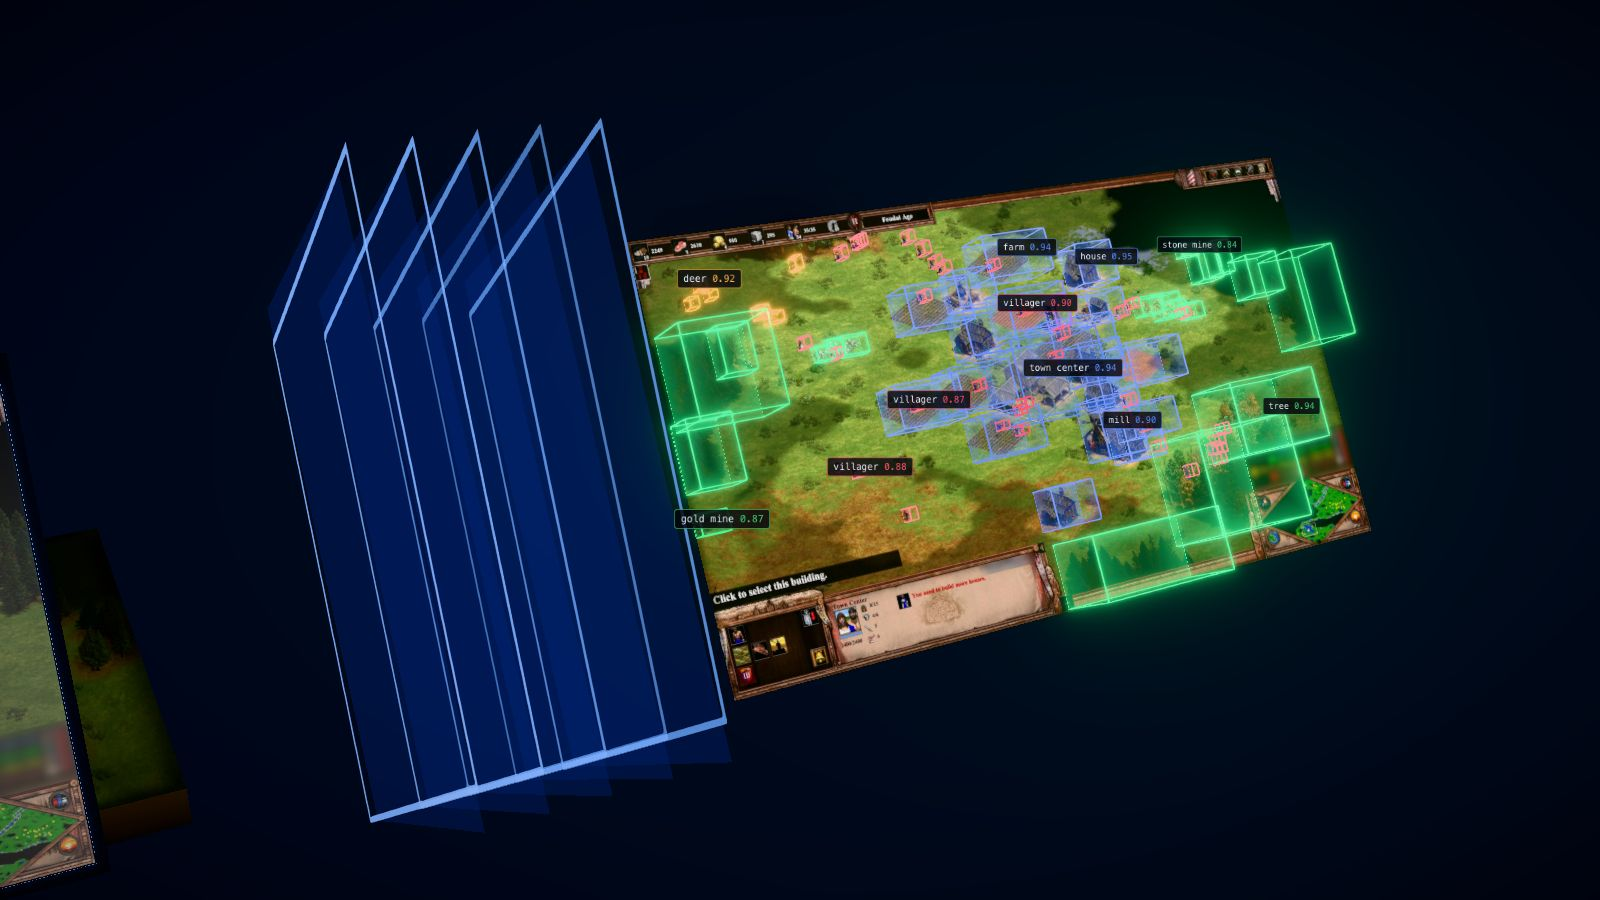
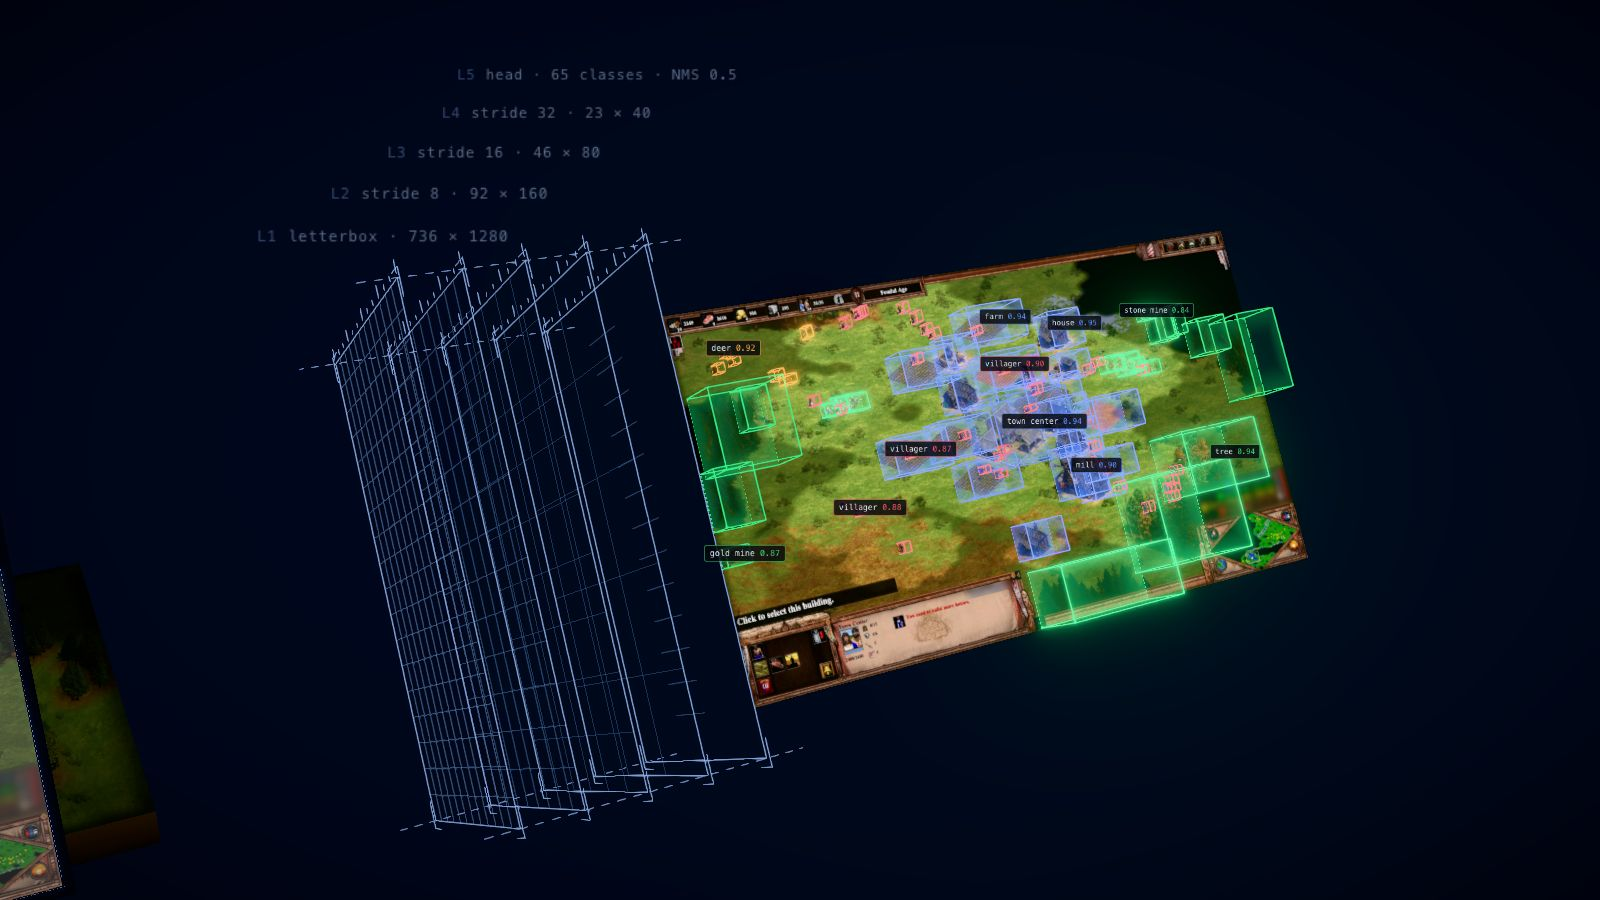
feat(landing): draw the detector gate as hairline network layers
The gate the frame slides through is now five thin frames for the served
model's stages: the letterboxed 736 x 1280 input, the stride 8, 16 and 32
feature maps (92 x 160, 46 x 80, 23 x 40) as grids that coarsen through the
network, and the head (65 classes, NMS at IoU 0.5). Corner brackets, ruler
ticks, dashed rails and a stepped label per layer replace the solid blue
panels; a layer lights up and runs a scan line while the frame passes it.
The gate sits closer to where the frame comes to rest, and the downstream
stations moved along with it.

diff --git a/apps/landing/src/components/walkthrough/scene/mind.ts b/apps/landing/src/components/walkthrough/scene/mind.ts
@@ -1,4 +1,5 @@
 import * as THREE from "three";
+import { CSS3DSprite } from "three/examples/jsm/renderers/CSS3DRenderer.js";
 
 import type { Board } from "./board";
 import type { SceneState } from "./timeline";
@@ -11,10 +12,10 @@ import type { TurnData } from "./types";
 export const MIND = {
   slabStart: new THREE.Vector3(0, 0, 0.15),
   slabPeel: new THREE.Vector3(0, 0, 3),
-  slab: new THREE.Vector3(27, 0, 3),
-  gate: 15,
-  crystal: new THREE.Vector3(40, 0, 5),
-  decision: new THREE.Vector3(55, 0, 5),
+  slab: new THREE.Vector3(30, 0, 3),
+  gate: 18,
+  crystal: new THREE.Vector3(43, 0, 5),
+  decision: new THREE.Vector3(58, 0, 5),
 };
 
 const glowColor = (r: number, g: number, b: number) => new THREE.Color(r, g, b);
@@ -23,25 +24,105 @@ export function createMind(data: TurnData, board: Board, frameTexture: THREE.Tex
   const group = new THREE.Group();
   group.name = "mind";
 
-  // ---- Detector gate: five glowing frames the slab slides through --------------------
+  // ---- Detector gate -------------------------------------------------------------------
+  // The network as five hairline frames the slab slides through: the letterboxed
+  // input, three feature maps (strides 8, 16, 32: each grid coarser than the last) and
+  // the head. Corner brackets, ruler ticks and dashed rails between the frames; a frame
+  // lights up and runs a scan line while the slab passes it.
+  const GATE_H = 10.4;
+  const GATE_D = 7.2;
+  const GATE_STEP = 1.25;
+  const LAYERS = [
+    { label: "letterbox · 736 × 1280", cells: 18 },
+    { label: "stride 8 · 92 × 160", cells: 13 },
+    { label: "stride 16 · 46 × 80", cells: 9 },
+    { label: "stride 32 · 23 × 40", cells: 5 },
+    { label: "head · 65 classes · NMS 0.5", cells: 0 },
+  ];
+  const gateX = (i: number) => MIND.gate - 2.5 + i * GATE_STEP;
   const gate = new THREE.Group();
-  const gateMaterials: THREE.MeshBasicMaterial[] = [];
-  for (let i = 0; i < 5; i++) {
-    const material = new THREE.MeshBasicMaterial({ color: glowColor(0.5, 1.1, 2.6), transparent: true, opacity: 0, toneMapped: false, side: THREE.DoubleSide });
-    gateMaterials.push(material);
-    const ring = new THREE.Mesh(new THREE.RingGeometry(6.2, 6.35, 4, 1), material);
-    ring.rotation.set(0, Math.PI / 2, Math.PI / 4);
-    ring.position.set(MIND.gate - 2 + i, 0, MIND.slab.z);
-    ring.scale.set(1, 1.15, 1);
-    gate.add(ring);
-    const fill = new THREE.Mesh(
-      new THREE.PlaneGeometry(8.6, 10.2),
-      new THREE.MeshBasicMaterial({ color: "#1d4ed8", transparent: true, opacity: 0, depthWrite: false, side: THREE.DoubleSide }),
-    );
-    fill.rotation.y = Math.PI / 2;
-    fill.position.copy(ring.position);
-    gate.add(fill);
+  const lineColor = glowColor(0.55, 0.85, 1.6);
+  const segments = (points: number[]) => {
+    const g = new THREE.BufferGeometry();
+    g.setAttribute("position", new THREE.Float32BufferAttribute(points, 3));
+    return g;
+  };
+  const layers = LAYERS.map((layer, i) => {
+    const x = gateX(i);
+    const y0 = -GATE_H / 2;
+    const y1 = GATE_H / 2;
+    const z0 = MIND.slab.z - GATE_D / 2;
+    const z1 = MIND.slab.z + GATE_D / 2;
+    const frame: number[] = [];
+    const seg = (ya: number, za: number, yb: number, zb: number) => frame.push(x, ya, za, x, yb, zb);
+    // Outline, then corner brackets drawn just outside it.
+    seg(y0, z0, y1, z0);
+    seg(y1, z0, y1, z1);
+    seg(y1, z1, y0, z1);
+    seg(y0, z1, y0, z0);
+    const b = 0.6;
+    const o = 0.18;
+    for (const [cy, cz, sy, sz] of [[y0, z0, 1, 1], [y0, z1, 1, -1], [y1, z0, -1, 1], [y1, z1, -1, -1]] as const) {
+      seg(cy - sy * o, cz - sz * o, cy - sy * o + sy * b, cz - sz * o);
+      seg(cy - sy * o, cz - sz * o, cy - sy * o, cz - sz * o + sz * b);
+    }
+    // Ruler ticks along the top edge, every 0.6, longer every third.
+    for (let k = 0, z = z0; z <= z1 + 1e-6; z += 0.6, k++) seg(y1 + 0.08, z, y1 + (k % 3 === 0 ? 0.36 : 0.2), z);
+    const frameMaterial = new THREE.LineBasicMaterial({ color: lineColor, transparent: true, opacity: 0, toneMapped: false });
+    const outline = new THREE.LineSegments(segments(frame), frameMaterial);
+
+    // The feature map: a grid, coarser through the network.
+    const grid: number[] = [];
+    if (layer.cells > 0) {
+      const rows = layer.cells;
+      const cols = Math.max(2, Math.round((layer.cells * GATE_D) / GATE_H));
+      for (let r = 1; r < rows; r++) {
+        const y = y0 + (r / rows) * GATE_H;
+        grid.push(x, y, z0, x, y, z1);
+      }
+      for (let c = 1; c < cols; c++) {
+        const z = z0 + (c / cols) * GATE_D;
+        grid.push(x, y0, z, x, y1, z);
+      }
+    } else {
+      // The head: a column of class slots instead of a grid.
+      for (let k = 0; k < 13; k++) {
+        const y = y0 + 1 + k * ((GATE_H - 2) / 12);
+        grid.push(x, y, MIND.slab.z - 0.9, x, y, MIND.slab.z + 0.9);
+      }
+    }
+    const gridMaterial = new THREE.LineBasicMaterial({ color: lineColor, transparent: true, opacity: 0, toneMapped: false });
+    const lattice = new THREE.LineSegments(segments(grid), gridMaterial);
+
+    // A scan line that sweeps the frame while the slab is inside it.
+    const scanMaterial = new THREE.MeshBasicMaterial({ color: glowColor(0.8, 1.6, 3.2), transparent: true, opacity: 0, toneMapped: false, side: THREE.DoubleSide });
+    const scan = new THREE.Mesh(new THREE.PlaneGeometry(GATE_D, 0.05), scanMaterial);
+    scan.rotation.y = Math.PI / 2;
+    scan.position.set(x, 0, MIND.slab.z);
+
+    const label = document.createElement("div");
+    label.className = "wt3d-gate-label";
+    label.innerHTML = `<span>L${i + 1}</span>${layer.label}`;
+    const tag = new CSS3DSprite(label);
+    // Labels step up through the network, so neighbours never overlap.
+    tag.scale.setScalar(0.026);
+    tag.position.set(x, y1 + 0.9 + i * 0.7, z1 - 0.4);
+
+    gate.add(outline, lattice, scan, tag);
+    return { x, frameMaterial, gridMaterial, scanMaterial, scan, label };
+  });
+  // Dashed rails from the first frame's corners to the last one's.
+  const rails: number[] = [];
+  for (const [y, z] of [[-GATE_H / 2, -GATE_D / 2], [-GATE_H / 2, GATE_D / 2], [GATE_H / 2, -GATE_D / 2], [GATE_H / 2, GATE_D / 2]] as const) {
+    rails.push(gateX(0) - 0.8, y, MIND.slab.z + z, gateX(LAYERS.length - 1) + 0.8, y, MIND.slab.z + z);
   }
+  const railGeometry = segments(rails);
+  const railLines = new THREE.LineSegments(
+    railGeometry,
+    new THREE.LineDashedMaterial({ color: lineColor, dashSize: 0.18, gapSize: 0.14, transparent: true, opacity: 0, toneMapped: false }),
+  );
+  railLines.computeLineDistances();
+  gate.add(railLines);
   group.add(gate);
 
   // ---- Earlier frames behind the slab, joined by track tubes -------------------------
@@ -130,16 +211,23 @@ export function createMind(data: TurnData, board: Board, frameTexture: THREE.Tex
     board.group.position.copy(tmp);
     board.group.visible = S.slab.on > 0.01;
 
-    // Gate frames light up as the slab's leading edge passes them.
-    const lead = tmp.x + board.W / 2;
+    // A frame lights up while the slab is inside it and scans it top to bottom.
     gate.visible = S.mind.gate > 0.01;
-    gateMaterials.forEach((m, i) => {
-      const x = MIND.gate - 2 + i;
-      const hit = Math.max(0, 1 - Math.abs(lead - x - board.W * 0.5) / (board.W * 0.6));
-      m.opacity = S.mind.gate * (0.35 + 0.65 * hit + 0.15 * Math.sin(time * 3 + i));
-      const fill = gate.children[i * 2 + 1] as THREE.Mesh;
-      (fill.material as THREE.MeshBasicMaterial).opacity = S.mind.gate * 0.06 * (1 + hit * 2);
+    const front = tmp.x + board.W / 2;
+    const back = tmp.x - board.W / 2;
+    layers.forEach((layer, i) => {
+      const inside = front > layer.x && back < layer.x;
+      const through = THREE.MathUtils.clamp((front - layer.x) / board.W, 0, 1);
+      const active = inside ? 1 : 0;
+      const g = S.mind.gate;
+      layer.frameMaterial.opacity = g * (0.45 + 0.55 * active);
+      layer.gridMaterial.opacity = g * (0.1 + 0.4 * active + 0.04 * Math.sin(time * 2 + i));
+      layer.scanMaterial.opacity = g * active * 0.9;
+      layer.scan.position.y = (0.5 - through) * GATE_H;
+      layer.label.style.opacity = String(g * (0.55 + 0.45 * active));
+      layer.label.classList.toggle("is-active", inside);
     });
+    (railLines.material as THREE.LineDashedMaterial).opacity = S.mind.gate * 0.35;
 
     ghosts.visible = S.mind.track > 0.01;
     ghostMaterials.forEach((m, i) => (m.opacity = S.mind.track * (0.42 - i * 0.1)));

diff --git a/apps/landing/src/components/walkthrough/scene/index.ts b/apps/landing/src/components/walkthrough/scene/index.ts
@@ -170,10 +170,10 @@ export async function mountScene({ view, stage, assets }: MountOptions): Promise
     // A little wider than the frame, so the glass shows with the village around it.
     game: { tx: 0, ty: 0, tz: 0, az: GAME_AZ, el: GAME_EL, size: gameSize * 1.75, fov: GAME_FOV },
     capture: inMind(new THREE.Vector3(3, 0, 1), 20, -4, 8.5),
-    detect: inMind(new THREE.Vector3(22, 0, 2), 28, -8, 9),
-    track: inMind(new THREE.Vector3(25, 0.5, -2), 62, -10, 8.2),
+    detect: inMind(new THREE.Vector3(MIND.gate + 7, 1, 2), 28, -8, 10.5),
+    track: inMind(new THREE.Vector3(MIND.slab.x - 2, 0.5, -2), 62, -10, 8.2),
     hud: inMind(new THREE.Vector3(hudLocal.x + 4.5, hudLocal.y - 1.2, hudLocal.z + 2), 10, 6, 4.8),
-    publish: inMind(new THREE.Vector3(37, 0, 3), 22, -6, 9.5),
+    publish: inMind(new THREE.Vector3(MIND.crystal.x - 3, 0, 3), 22, -6, 9.5),
     decide: inMind(MIND.decision.clone().add(new THREE.Vector3(-0.9, -0.8, 0)), 0, 0, 7.6),
     house: { tx: spotsCentre.x, ty: 0.6, tz: spotsCentre.z, az: 48, el: 31, size: Math.max(6, spotsReach * 1.3), fov: 26 },
     verify: { tx: green.x, ty: 1, tz: green.z, az: 52, el: 32, size: 6.5, fov: 26 },

diff --git a/apps/landing/src/styles/globals.css b/apps/landing/src/styles/globals.css
@@ -1714,6 +1714,29 @@
   color: #8a9ab3;
 }
 
+.wt3d-gate-label {
+  display: flex;
+  gap: 8px;
+  font-family: var(--font-mono);
+  font-size: 11px;
+  letter-spacing: 0.06em;
+  color: #9fb6d8;
+  white-space: nowrap;
+  transition: color 200ms;
+}
+
+.wt3d-gate-label span {
+  color: #5b7bb0;
+}
+
+.wt3d-gate-label.is-active {
+  color: #e6f0ff;
+}
+
+.wt3d-gate-label.is-active span {
+  color: #7cc4ff;
+}
+
 .wt3d-role.is-idle .wt3d-role-model {
   color: #8a9ab3;
 }
